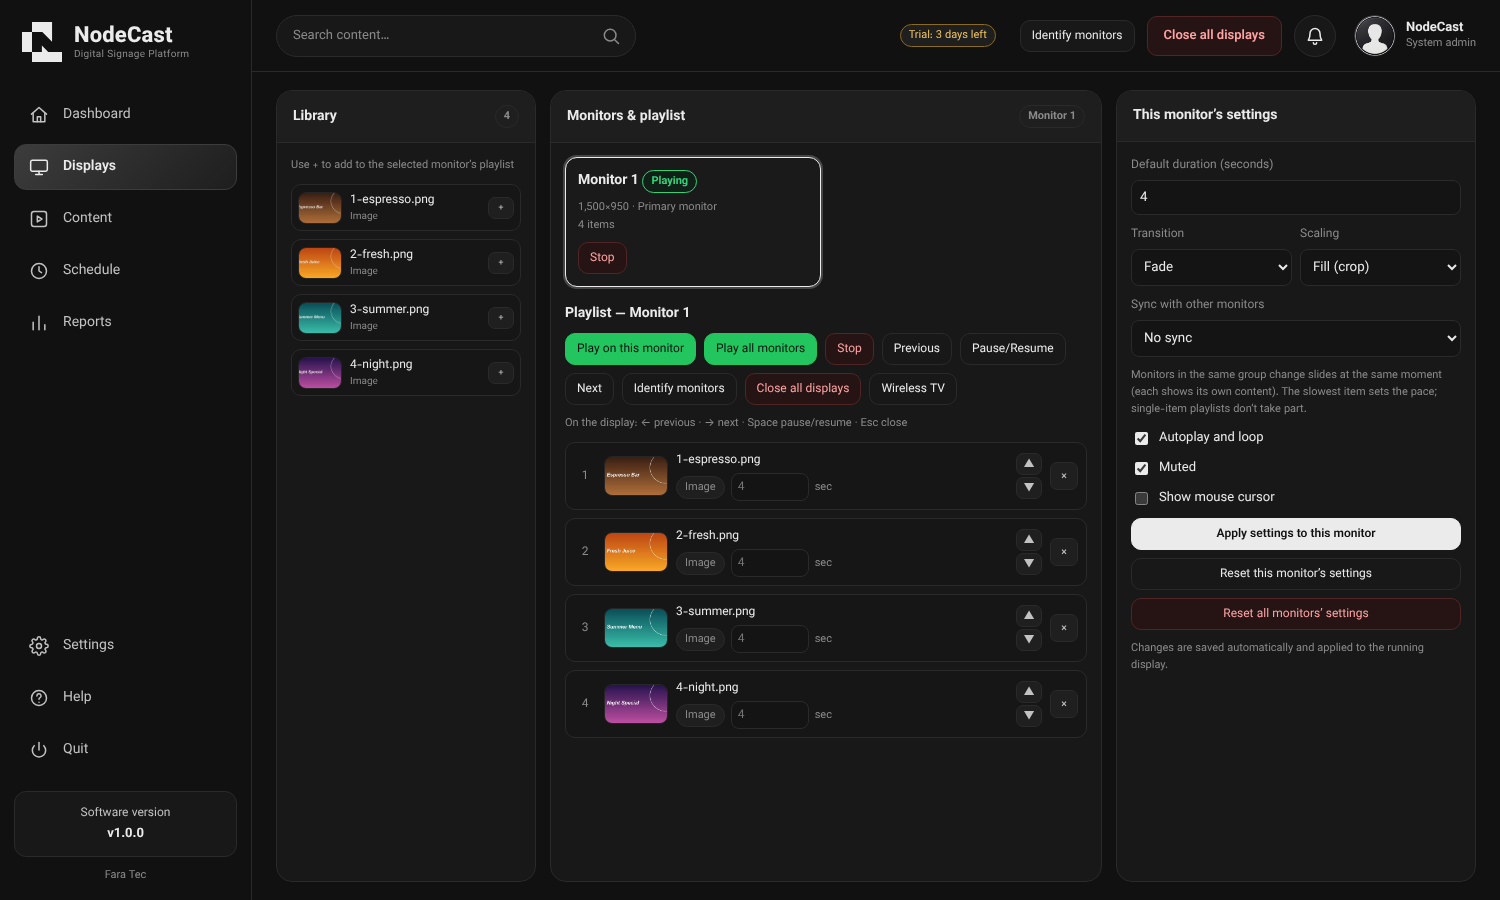
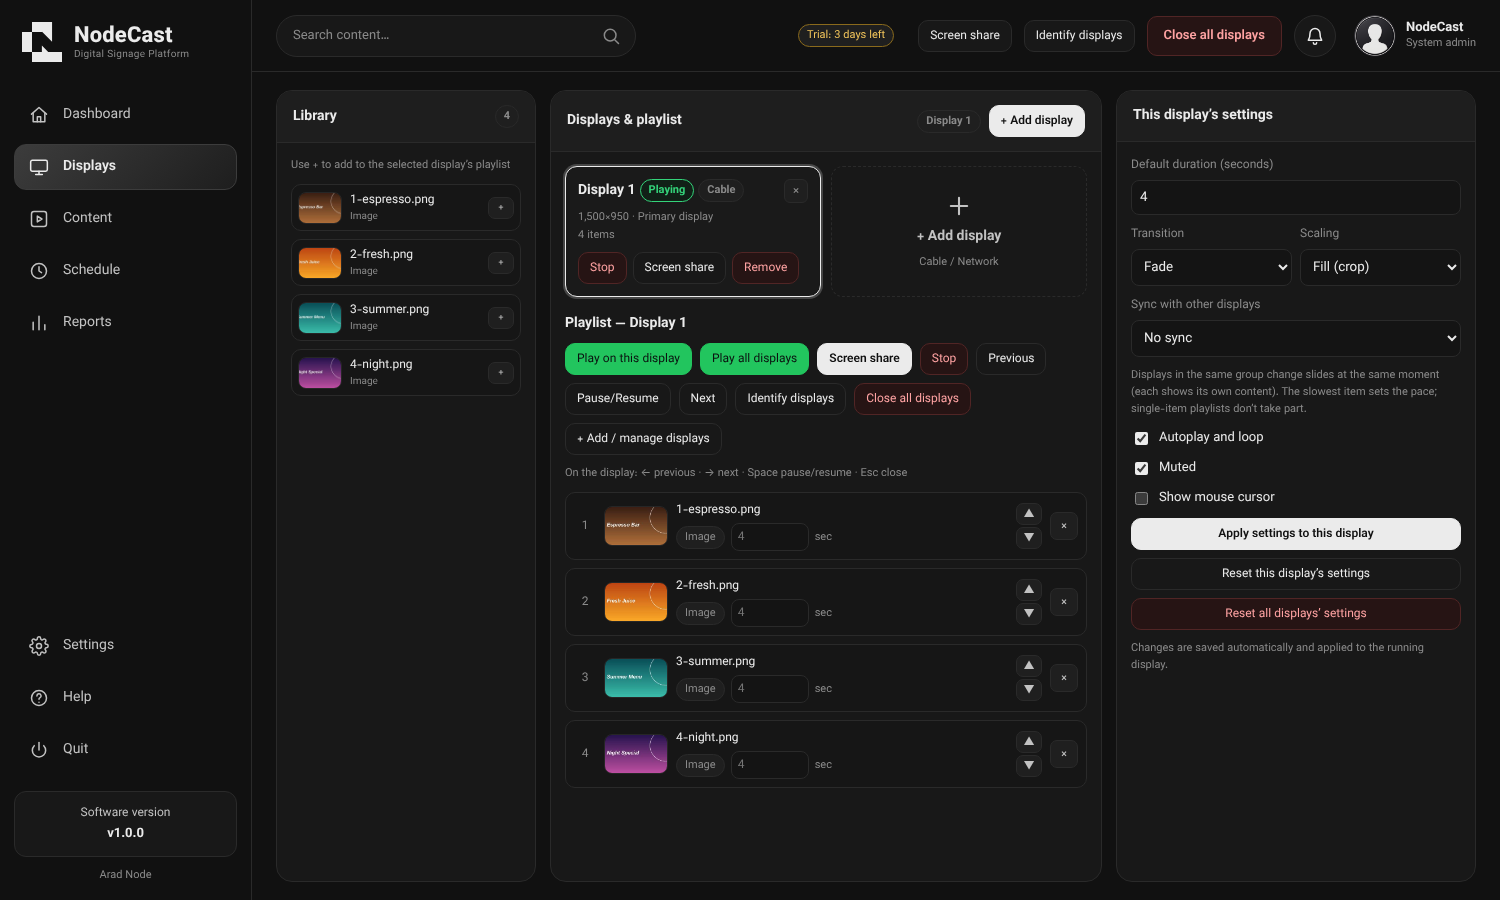
Showcase: add online/network displays and live screen share, refresh screenshots from v16 (Arad Node footer)
Claude-Session: https://claude.ai/code/session_01XZ4hviTMm6pBUhPvTcVAVh

diff --git a/README.md b/README.md
@@ -8,11 +8,12 @@ Run a different playlist on every screen from one simple app.</p>
 
 ## What it does
 
-- **Multiple monitors, one app.** Each connected screen gets its own playlist, transition, scaling mode and settings.
+- **Cable and online displays together.** Plug in HDMI monitors, or add *network displays*: any smart TV, Android box, stick or PC on your local network just opens a web address full-screen, you approve a 6-digit code, and it behaves exactly like a cable display. No cable to the PC. Up to 6 cable + 8 network displays (14 in total) on the full plan.
+- **Live screen share.** Mirror your whole desktop or a single open window live to one display or all of them (60 FPS on cable displays, 25–30 FPS MJPEG to network displays), or save it into the library and playlist like any other item.
+- **Every display is independent.** Each screen gets its own playlist, transition, scaling mode and settings.
 - **Images, videos and web pages** in one content library; drag items into any monitor's playlist and set per-item duration.
 - **Weekly schedule.** Set opening and closing hours for each day; displays start and stop by themselves.
 - **Synced monitors.** Group screens so slides change at the same moment.
-- **Wireless TVs.** Pair a TV or any device with a browser over your local network using a 6-digit code, with no cable to the PC.
 - **Kiosk-friendly.** Starts with Windows, lives in the tray, keeps the PC awake, and can be protected with a PIN.
 - **Dark and light themes**, full **Persian (RTL) and English** interface.
 - **Offline licensing** (no account or server needed to run) with a free trial, plus automatic updates.
@@ -23,13 +24,17 @@ Run a different playlist on every screen from one simple app.</p>
 |---|---|
 | <img src="screenshots/content-en-dark.png" width="440"> | <img src="screenshots/schedule-en-dark.png" width="440"> |
 
+**Adding online (network) displays**
+
+<img src="screenshots/network-displays-en-dark.png" width="900">
+
 **Persian / light theme**
 
 <img src="screenshots/displays-fa-light.png" width="900">
 
 ## Requirements
 
-Windows 10 or 11, 64-bit. Wireless TVs need to be on the same local network as the PC.
+Windows 10 or 11, 64-bit. Network displays need to be on the same local network as the PC.
 
 ## Get it
 
@@ -43,11 +48,12 @@ Releases and pricing will be announced here. For questions or licences, contact 
 
 نودکست یک نرمافزار نمایش محتوای دیجیتال (دیجیتال ساینیج) برای ویندوز است که برای کافهها، رستورانها و فروشگاهها ساخته شده. با یک برنامه روی هر مانیتور یک پلیلیست جداگانه پخش کنید.
 
-- مدیریت چند مانیتور، با پلیلیست و تنظیمات مستقل برای هر کدام
+- نمایشگر کابلی و آنلاین (تحت شبکه) کنار هم: هر تلویزیون هوشمند، باکس اندروید یا کامپیوتر روی شبکهٔ محلی فقط یک آدرس را تمامصفحه باز میکند، کد ۶ رقمی را تأیید میکنید و مثل نمایشگر کابلی کار میکند، بدون کابل. تا ۶ کابلی + ۸ آنلاین (جمعاً ۱۴ نمایشگر) در نسخهٔ کامل
+- اشتراک زنده صفحهنمایش (کل دسکتاپ یا یک پنجره) روی یک یا همهٔ نمایشگرها، یا افزودن آن به کتابخانه و پلیلیست
+- پلیلیست و تنظیمات مستقل برای هر نمایشگر
 - تصویر، ویدیو و صفحهٔ وب در یک کتابخانهٔ مشترک
 - زمانبندی هفتگی: شروع و پایان پخش برای هر روز
 - همگامسازی مانیتورها برای تغییر همزمان اسلاید
-- تلویزیون بیسیم روی شبکهٔ محلی، با کد ۶ رقمی و بدون کابل
 - شروع خودکار با ویندوز، اجرا در سینی سیستم و قفل با رمز
 - تم تیره و روشن، رابط فارسی (راستبهچپ) و انگلیسی
 - لایسنس آفلاین با نسخهٔ آزمایشی و بهروزرسانی خودکار
